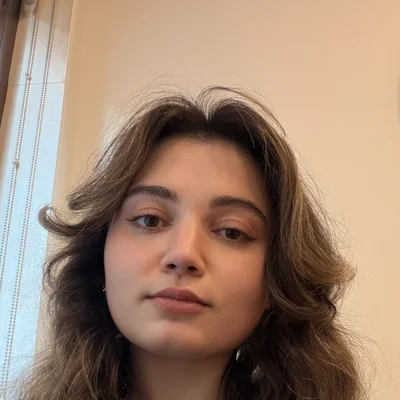
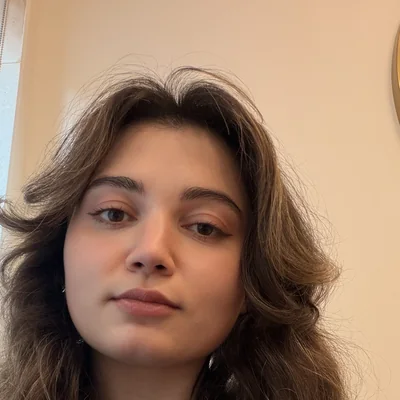
Give the portrait a shape instead of a circle
The blob was in the stylesheet all along but its radii were within a
few percent of each other, so it rendered as a plain circle. The values
are now properly asymmetric, and the morph keyframes travel between two
real shapes rather than two near-circles. Up from 118px to 132px, since
a shape this soft needs room to read as one.

border-radius rather than clip-path, deliberately: a clip cuts away the
box-shadow, so the white mat and the drop shadow would have gone with
it, and radii can be animated.

Re-cropped to the right of where it was. A cold window frame was
sitting along the left edge, blue against a warm page; the crop that
loses it keeps the face and brings in wall instead.

diff --git a/styles.css b/styles.css
@@ -185,20 +185,20 @@ main {
 .hero { padding: 26px 0 4px; text-align: center; }
 
 .avatar {
-  width: 118px;
-  height: 118px;
+  width: 132px;
+  height: 132px;
   margin: 0 auto;
   overflow: hidden;
   background: var(--bg-2);
-  border-radius: 56% 44% 47% 53% / 46% 52% 48% 54%;
+  border-radius: 64% 36% 50% 50% / 56% 40% 60% 44%;
   box-shadow: 0 0 0 7px rgba(255, 255, 255, .6), var(--shadow-md);
   animation: morph 14s ease-in-out infinite;
 }
 .avatar img { width: 100%; height: 100%; object-fit: cover; display: block; }
 
 @keyframes morph {
-  0%, 100% { border-radius: 56% 44% 47% 53% / 46% 52% 48% 54%; }
-  50%      { border-radius: 44% 56% 54% 46% / 55% 45% 55% 45%; }
+  0%, 100% { border-radius: 64% 36% 50% 50% / 56% 40% 60% 44%; }
+  50%      { border-radius: 56% 44% 58% 42% / 48% 54% 46% 52%; }
 }
 
 .note {

diff --git a/README.md b/README.md
@@ -69,10 +69,13 @@ wide layout flips it with `order`, so there is one piece of markup, not two.
 ## The portrait
 
 `assets/kristina.webp` is a 400x400 square crop of a phone photo, shown through
-an organic blob `border-radius` that slowly morphs. The crop is deliberately
-head-and-shoulders: at 118px anything wider turns the face into nothing. The
-photo's own background is warm cream, which is why it sits on the page without
-a ring or a border.
+an asymmetric `border-radius` blob that morphs slowly between two states. The
+shape is done with `border-radius` and not `clip-path` on purpose: a clip would
+cut away the white mat and the shadow with it, and these values can animate.
+
+The crop sits right of the face's centre — further left and a cold window frame
+comes into the picture and fights the warm page. It is head-and-shoulders
+because at 132px anything wider loses the face.
 
 To swap it, crop square around the face, export at 400px, keep the filename.
 
